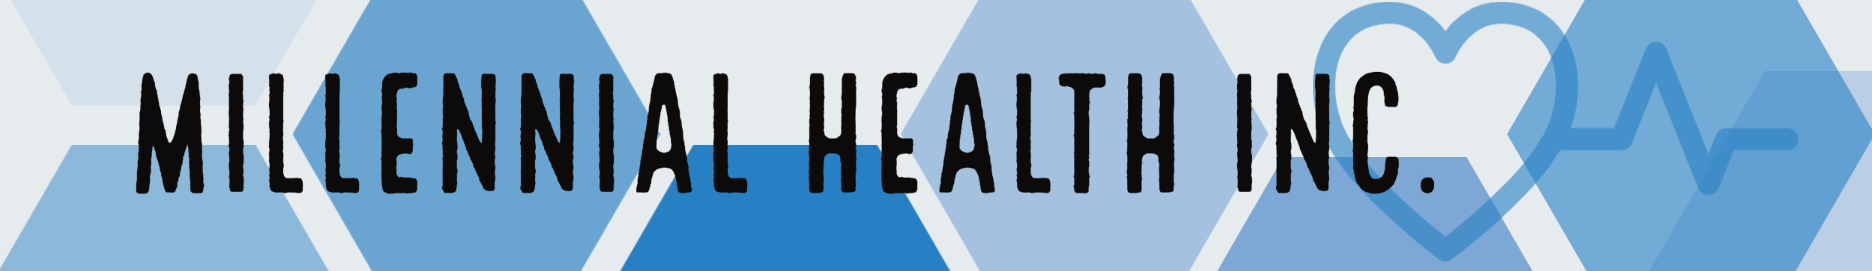
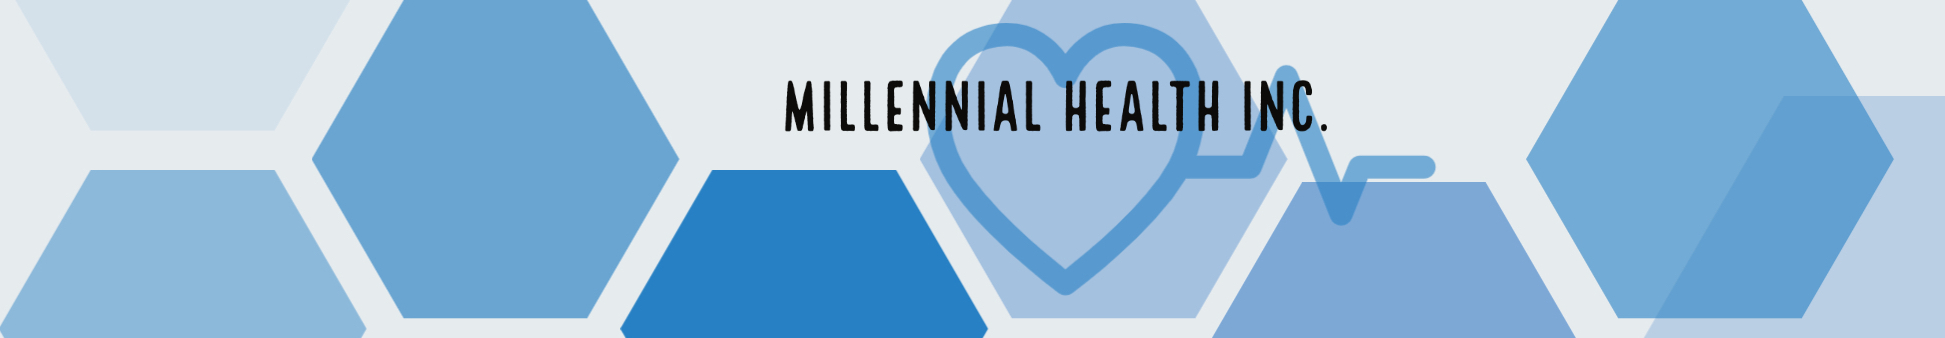
login page and nav bar styled - unfinished

diff --git a/client/src/components/Login/LoginPage.js b/client/src/components/Login/LoginPage.js
@@ -3,7 +3,7 @@ import { useHistory } from 'react-router-dom';
 import UserContext from '../../Context/UserContext';
 import Axios from 'axios';
 import ErrorNotice from "../Error/ErrorNotice"
-import { Form, Button, Card } from "react-bootstrap";
+import { Form, Button, Card, Row } from "react-bootstrap";
 import './LoginPage.css';
 
 const LoginPage = () => {
@@ -35,29 +35,65 @@ const LoginPage = () => {
 
 return(
 
-  <div className="page">
-  <h2>Log in</h2>
+
+  <Row className="d-flex justify-content-center px-5">
+<Card className="col-md-4 bg-white">
+  <Card.Header className="bg-pink">
+    <Card.Title>Log In</Card.Title>
+  
+  </Card.Header>
+  <Card.Body>
+    <Card.Text><Form className="form">
+  <Form.Group controlId="formBasicEmail">
   {error && (
     <ErrorNotice message={error} clearError={() => setError(undefined)} />
   )}
-  <form className="form" onSubmit={submit}>
-    <label htmlFor="login-email">Email</label>
-    <input
-      id="login-email"
-      type="email"
-      onChange={(e) => setEmail(e.target.value)}
-    />
+    <Form.Label>Email address</Form.Label>
+    <Form.Control type="email" placeholder="Enter email" />
+    <Form.Text className="text-muted">
+      We'll never share your email with anyone else.
+    </Form.Text>
+  </Form.Group>
 
-    <label htmlFor="login-password">Password</label>
-    <input
-      id="login-password"
-      type="password"
-      onChange={(e) => setPassword(e.target.value)}
-    />
+  <Form.Group controlId="formBasicPassword">
+    <Form.Label>Password</Form.Label>
+    <Form.Control type="password" placeholder="Password" />
+  </Form.Group>
+  <Form.Group controlId="formBasicCheckbox">
+    <Form.Check type="checkbox" label="Check me out" />
+  </Form.Group>
+  <Button variant="primary" type="submit">
+    Submit
+  </Button>
+</Form>
+    </Card.Text>
+    <Button className="btn-pink">Go somewhere</Button>
+  </Card.Body>
+</Card>
+</Row>
 
-    <input type="submit" value="Log in" />
-  </form>
-</div>
+//   <h1>Log in</h1>
+//   {error && (
+//     <ErrorNotice message={error} clearError={() => setError(undefined)} />
+//   )}
+//   <form className="form" onSubmit={submit}>
+//     <label htmlFor="login-email">Email</label>
+//     <input
+//       id="login-email"
+//       type="email"
+//       onChange={(e) => setEmail(e.target.value)}
+//     />
+
+//     <label htmlFor="login-password">Password</label>
+//     <input
+//       id="login-password"
+//       type="password"
+//       onChange={(e) => setPassword(e.target.value)}
+//     />
+
+//     <input type="submit" value="Log in" />
+//   </form>
+// </div>
 
 // <Card style={{ width: '25rem'}}>
 //     <Card.Body>

diff --git a/client/src/components/Navigation/Navigation.js b/client/src/components/Navigation/Navigation.js
@@ -3,18 +3,18 @@ import { NavLink} from "react-router-dom";
 import { Navbar, Nav, Form, Jumbotron, Container} from "react-bootstrap";
 import Time from '../CurrTime/CurrTimePage'
 import LogOptions from "../LogOptions/LogOptions"
-import bgimage from "./BG.jpg"
+import bgimage from "./bg.jpg"
+
 
 const jumbotronStyles = 
 { 
-    height: '270px',  
-    
+    height: '320px',  
     backgroundImage: `url(${bgimage})`, 
     backgroundSize: 'cover',
     backgroundwidth: '100%',
     backgroundheight: 'auto',
     backgroundRepeat: 'no repeat',
-    backgroundPosition: 'center'
+    backgroundPosition: 'center',
 
 }
             
@@ -27,21 +27,24 @@ const Navigation = () => {
     <Jumbotron bg-cover style={jumbotronStyles} >
 
     </Jumbotron>
-    <Navbar bg="primary" expand="lg">
+
+    <Navbar expand="lg" className="mb-5">
+  <Navbar.Brand className="gray d-block d-md-none">Millennial Health Inc.</Navbar.Brand>
   <Navbar.Toggle aria-controls="basic-navbar-nav" />
   <Navbar.Collapse id="basic-navbar-nav">
-    <Nav className="mr-auto" style={{alignSelf: "center"}}>
-          <NavLink to="/" Text style={{color: "white", padding: 30, fontSize: 25, borderBottom: "3px solid white", borderTop: "3px solid white" }}>Home </NavLink>
-          <br></br>
-          <NavLink to="/new" Text style={{color: "white", padding: 30, fontSize: 25, borderBottom: "3px solid white", borderTop: "3px solid white"}}> New Visit</NavLink>
-          <br></br>
-          <NavLink to="/new" Text style={{color: "white", padding: 30, fontSize: 25, borderBottom: "3px solid white", borderTop: "3px solid white"}}> About us</NavLink>
-      
+    <Nav className="mx-auto ">
+      <Nav.Link href="#home"><h4>HOME</h4></Nav.Link>
+      <Nav.Link href="#register"><h4>NEW PATIENT</h4></Nav.Link>
+      <Nav.Link href="#login"><h4>LOGIN</h4></Nav.Link>
+      <Nav.Link href="#about"><h4>ABOUT US</h4></Nav.Link>
+      <LogOptions/>
+      <Time/>
     </Nav>
-        
-    <LogOptions />
-    <Time/>
+    {/* <LogOptions className="mx-auto"/> */}
+    {/* <Time/> */}
   </Navbar.Collapse>
+        
+  
 </Navbar>
 
 

diff --git a/client/src/components/LogOptions/LogOptions.js b/client/src/components/LogOptions/LogOptions.js
@@ -1,6 +1,9 @@
 import React, { useContext, useState } from 'react';
 import { useHistory } from 'react-router-dom';
+import {Button, Container} from "react-bootstrap";
+
 import UserContext from '../../Context/UserContext';
+import './LogOptions.css'
 
 export default function LogOptions() {
     const { userData, setUserData } = useContext(UserContext);
@@ -28,15 +31,16 @@ export default function LogOptions() {
       console.log('USER DATA', userData)
       return (
         
-        <div className="auth-options">
+        <Container className="auth-options mx-3">
           {userData.user ? (
-            <button onClick={logout}>Log out</button>
+            <Button className="btn-blue" onClick={logout}>Log out</Button>
           ) : (
-            <>
-              <button onClick={register}>Register</button>
-              <button onClick={login}>Log in</button>
-            </>
+            
+            <Container className=''>
+              <Button className="btn-blue" onClick={register}>Register</Button>
+              <Button className="btn-blue" onClick={login}>Log in</Button>
+            </Container>
           )}
-        </div>
+        </Container>
       );
 }

diff --git a/client/src/components/Navigation/Navigation.css b/client/src/components/Navigation/Navigation.css
@@ -1,18 +1,53 @@
-.logoName{
-    font-family: fantasy;
-    font-size: xx-large;
+html {
+    scroll-behavior: smooth;
 }
-.form-inline{
-    color: white;
+body
+{
+    padding: 10px;
+    margin-top: none;
+    background-color: white;
+    color: #6B7378;
 }
-
+.gray{
+    color: #6B7378!important;
+    align-content:center!important;
+}
 .navbar{
     background-color: transparent!important;
-
+    border-top: 1px solid #6B7378;
+    border-bottom: 1px solid #6B7378;
+    align-content: center!important;
 }
-.navlink a{
-    color: white!important;
+.navbar a{
+    color: #6B7378!important;
 }
 .navbar a:hover{
-    color:white!important;
+    color:#6B7378!important;
+}
+
+.author{
+    text-align: right;
+}
+footer{
+    text-align: center;
+}
+
+.navbar-toggler-icon {
+    display: inline-block;
+    width: 1.5em;
+    height: 1.5em;
+    vertical-align: middle;
+    content: "";
+    background: no-repeat center center;
+    color:#6B7378!important;
+    background-size: 100% 100%;
+}
+
+.btn-blue{
+    background-color: #5F95D0!important;
+    color:#6B7378!important;
+    border: none !important;
+    border-radius: 0!important;
+
+    
 }

diff --git a/client/src/components/LogOptions/LogOptions.css b/client/src/components/LogOptions/LogOptions.css
@@ -1,0 +1,13 @@
+
+
+.btn-blue{
+    background-color: #5F95D0!important;
+    color:#6B7378!important;
+    border: none !important;
+    border-radius: 0!important;
+    align-content: right!important;
+    align-self: right!important;
+    margin-right: 3;
+
+    
+}

diff --git a/client/src/components/Login/LoginPage.css b/client/src/components/Login/LoginPage.css
@@ -18,6 +18,12 @@ body{
 
 
 
-  .Button{
-      padding:50px;
-  }
+  .btn-blue{
+    background-color: #5F95D0!important;
+    color:white!important;
+    border: none !important;
+    border-radius: 0!important;
+    padding: 5px
+
+    
+}
